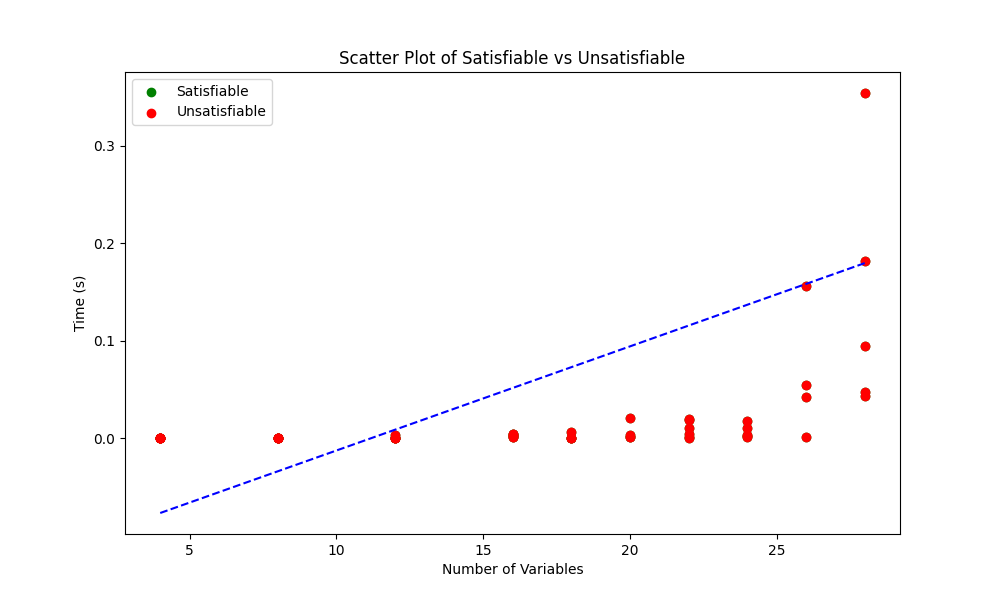
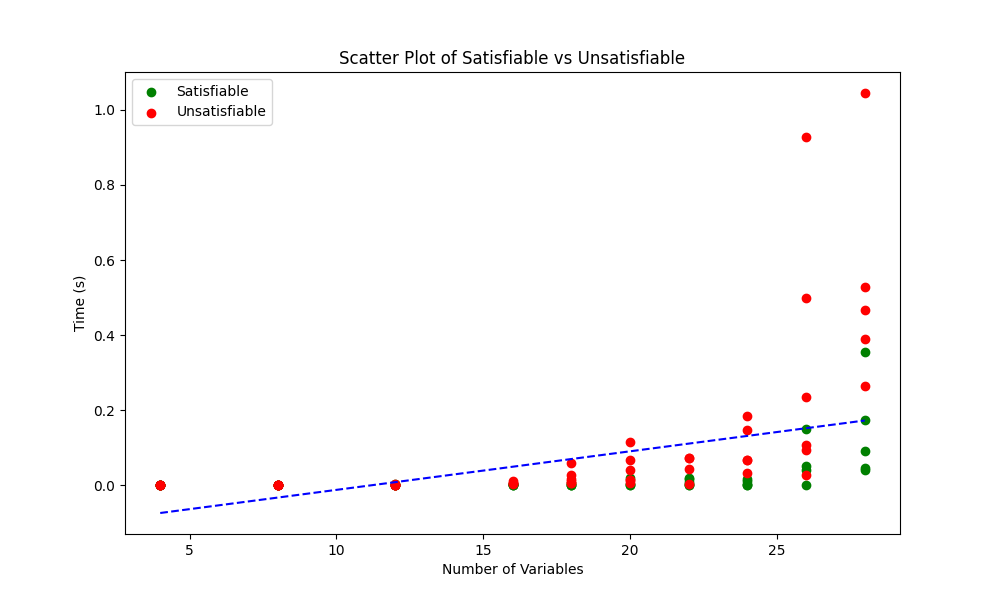
regenerated plot

diff --git a/dpll_jrelling.py b/dpll_jrelling.py
@@ -130,7 +130,7 @@ def generate_plot():
     plt.scatter(satisfiable['# variables'], satisfiable['time (s)'], color='green', label='Satisfiable')
     
     unsatisfiable = data[sat == 'U']
-    plt.scatter(satisfiable['# variables'], satisfiable['time (s)'], color='red', label='Unsatisfiable')
+    plt.scatter(unsatisfiable['# variables'], unsatisfiable['time (s)'], color='red', label='Unsatisfiable')
     
     coefficients = np.polyfit(x, y, 1)  # Linear fit (1st degree polynomial)
     polynomial = np.poly1d(coefficients)
